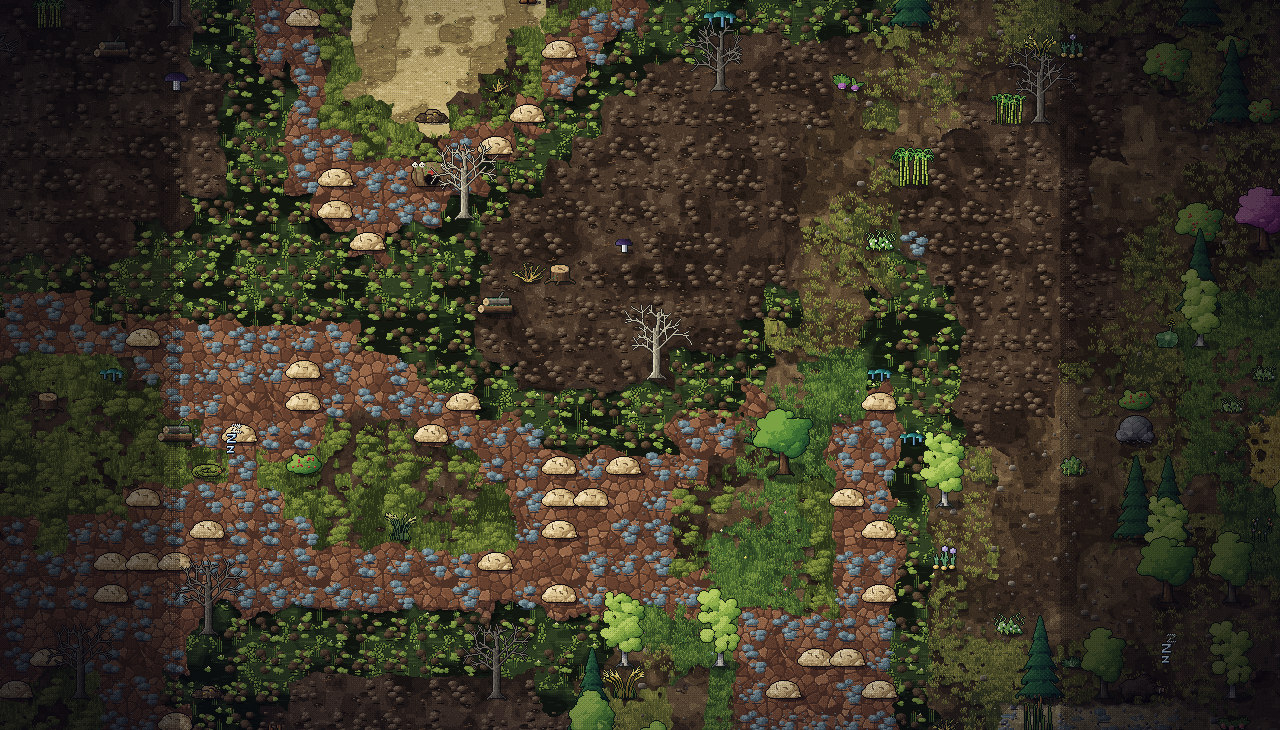
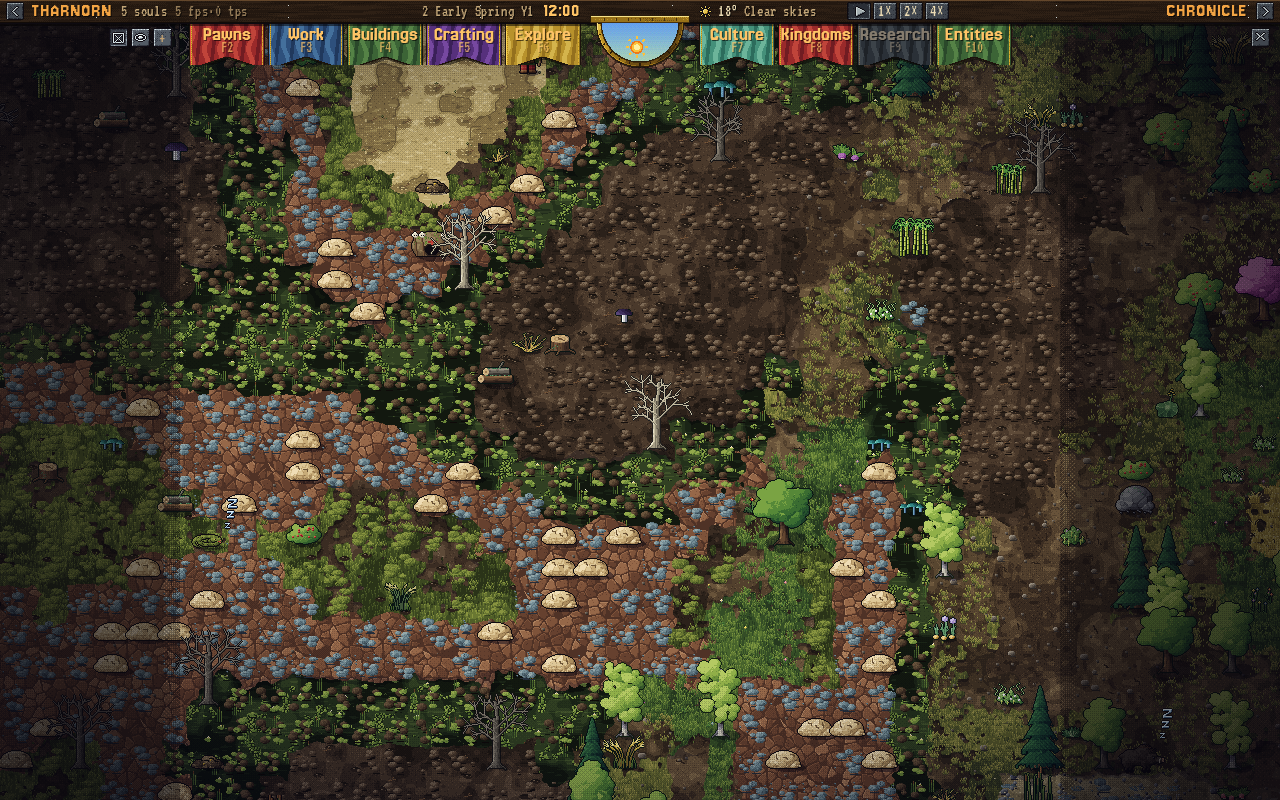
feat(mockups): clay ground revision with today's plates at three saturations, no blue lumps and frayed edges
Claude-Session: 7c3af3c0-0872-4954-bbad-ee267ead7c20
T3-Thread: thread:delegated-task:command%3Amcp%3A56f86a23-d751-4350-9960-6c4de248c771%3Adelegate-task%3A69fa8817-2c03-4e04-84aa-652b4ce71fa8

diff --git a/mockups/clay-ground/index.html b/mockups/clay-ground/index.html
@@ -28,7 +28,6 @@ body[data-show="today"] #scene .new, body[data-show="new"] #scene .old { display
 .row figure { max-width: 100%; overflow-x: auto; }
 .row + .row { margin-top: 14px; }
 .crop { border: 1px solid var(--line); background-repeat: no-repeat; image-rendering: pixelated; flex: none; }
-.sheet { display: block; image-rendering: pixelated; border: 1px solid var(--line); max-width: none; }
 </style>
 <link rel="stylesheet" href="../fantasia4x-hud/chrome.css">
 <script src="../fantasia4x-hud/chrome.js"></script>
@@ -36,8 +35,8 @@ body[data-show="today"] #scene .new, body[data-show="new"] #scene .old { display
 <body>
 <header id="mock">
   <div class="mrow"><strong>Clay ground</strong><button id="mockhide">Hide · `</button></div>
-  <div class="mrow"><span class="grp" data-k="dir"><span class="lab">direction</span><button data-v="a">A</button><button data-v="b">B</button><button data-v="c">C</button></span></div>
-  <div class="mrow"><span class="grp" data-k="show"><span class="lab">show</span><button data-v="pair">Pair</button><button data-v="today">Today</button><button data-v="new">Direction</button><span class="lab">flip · T</span></span></div>
+  <div class="mrow"><span class="grp" data-k="sat"><span class="lab">saturation</span><button data-v="s85">85%</button><button data-v="s70">70%</button><button data-v="s55">55%</button></span></div>
+  <div class="mrow"><span class="grp" data-k="show"><span class="lab">show</span><button data-v="pair">Pair</button><button data-v="today">Today</button><button data-v="new">Revision</button><span class="lab">flip · T</span></span></div>
   <div class="mrow"><span class="grp" data-k="view"><span class="lab">view</span><button data-v="close">By moss and grass</button><button data-v="ring">Ringed in mud</button></span></div>
   <div class="mrow"><span class="grp" data-k="zoom"><span class="lab">zoom</span><button data-v="fit">Fit</button><button data-v="1">1×</button><button data-v="2">2×</button></span></div>
   <div class="mrow"><span class="grp" data-k="theme"><span class="lab">page</span><button data-v="auto">Auto</button><button data-v="light">Light</button><button data-v="dark">Dark</button></span></div>
@@ -52,46 +51,30 @@ body[data-show="today"] #scene .new, body[data-show="new"] #scene .old { display
 
 <h2>Edges, 2×</h2>
 <div id="edges"></div>
-
-<h2>Fire clay, 2×</h2>
-<div class="row" id="fire"></div>
-
-<h2>Tile set, 3×</h2>
-<div class="row">
-  <figure><figcaption><b>Today</b> · clay, blue clay, fire clay</figcaption><img class="sheet" src="img/sheet-today.png" alt="today's clay tile and deposits"></figure>
-  <figure><figcaption><b>Reworked</b> · clay, blue clay as seams, low fire clay</figcaption><img class="sheet" src="img/sheet-new.png" alt="reworked clay tile and deposits"></figure>
-</div>
 </main>
 <script>
 (() => {
-  const DIRS = {
-    a: 'A · earth-toned clay, blue clay as seams',
-    b: 'B · A with ragged edges',
-    c: 'C · clay in pans over mud, ragged edges'
-  };
+  const SAT = { s85: '85%', s70: '70%', s55: '55%' };
   const WHERE = { close: 'Tile 173, 357', ring: 'Tile 312, 196' };
   const EDGES = {
     close: [['Clay against bog', 190, 160, 330, 230], ['Clay against moss and tall grass', 640, 380, 330, 230]],
     ring: [['Mud, bog, clay', 660, 60, 330, 250], ['Clay against grass and dirt', 180, 300, 330, 230]]
   };
-  const FIRE = [['Today', 'fire-today'], ['Low mound', 'fire-low']];
   const src = (view, v) => `img/${view}-${v}.webp`;
   const crop = (label, url, x, y, w, h) =>
-    `<figure><figcaption><b>${label}</b></figcaption><div class="crop" style="width:${w * 2}px;height:${h * 2}px;background-image:url(${url});background-size:2560px 1460px;background-position:${-x * 2}px ${-y * 2}px"></div></figure>`;
+    `<figure><figcaption><b>${label}</b></figcaption><div class="crop" style="width:${w * 2}px;height:${h * 2}px;background-image:url(${url});background-size:2560px 1600px;background-position:${-x * 2}px ${-y * 2}px"></div></figure>`;
   function render(s) {
     document.body.dataset.show = s.show;
     document.body.dataset.zoom = s.zoom;
     document.getElementById('where').textContent = WHERE[s.view];
     document.getElementById('old').src = src(s.view, 'today');
     const img = document.getElementById('new');
-    img.src = src(s.view, s.dir);
-    img.alt = DIRS[s.dir];
-    document.getElementById('newcap').innerHTML = `<b>${DIRS[s.dir]}</b>`;
+    img.src = src(s.view, s.sat);
+    img.alt = 'Revision ' + SAT[s.sat];
+    document.getElementById('newcap').innerHTML = `<b>Revision · ${SAT[s.sat]}</b>`;
     document.getElementById('edges').innerHTML = EDGES[s.view].map(([label, x, y, w, h]) =>
-      `<div class="row">${[['Today · ' + label, 'today'], ['A', 'a'], ['B', 'b'], ['C', 'c']].map(([t, v]) => crop(t, src(s.view, v), x, y, w, h)).join('')}</div>`).join('');
+      `<div class="row">${[['Today · ' + label, 'today'], ...Object.entries(SAT).map(([v, t]) => [t, v])].map(([t, v]) => crop(t, src(s.view, v), x, y, w, h)).join('')}</div>`).join('');
   }
-  document.getElementById('fire').innerHTML = FIRE.map(([t, f]) =>
-    `<figure><figcaption><b>${t}</b></figcaption><img class="sheet" src="img/${f}.webp" width="1040" height="560" alt="${t} fire clay"></figure>`).join('');
   const ui = F4X.bar((s) => render(s));
   render(ui.state);
   addEventListener('keydown', (ev) => {
